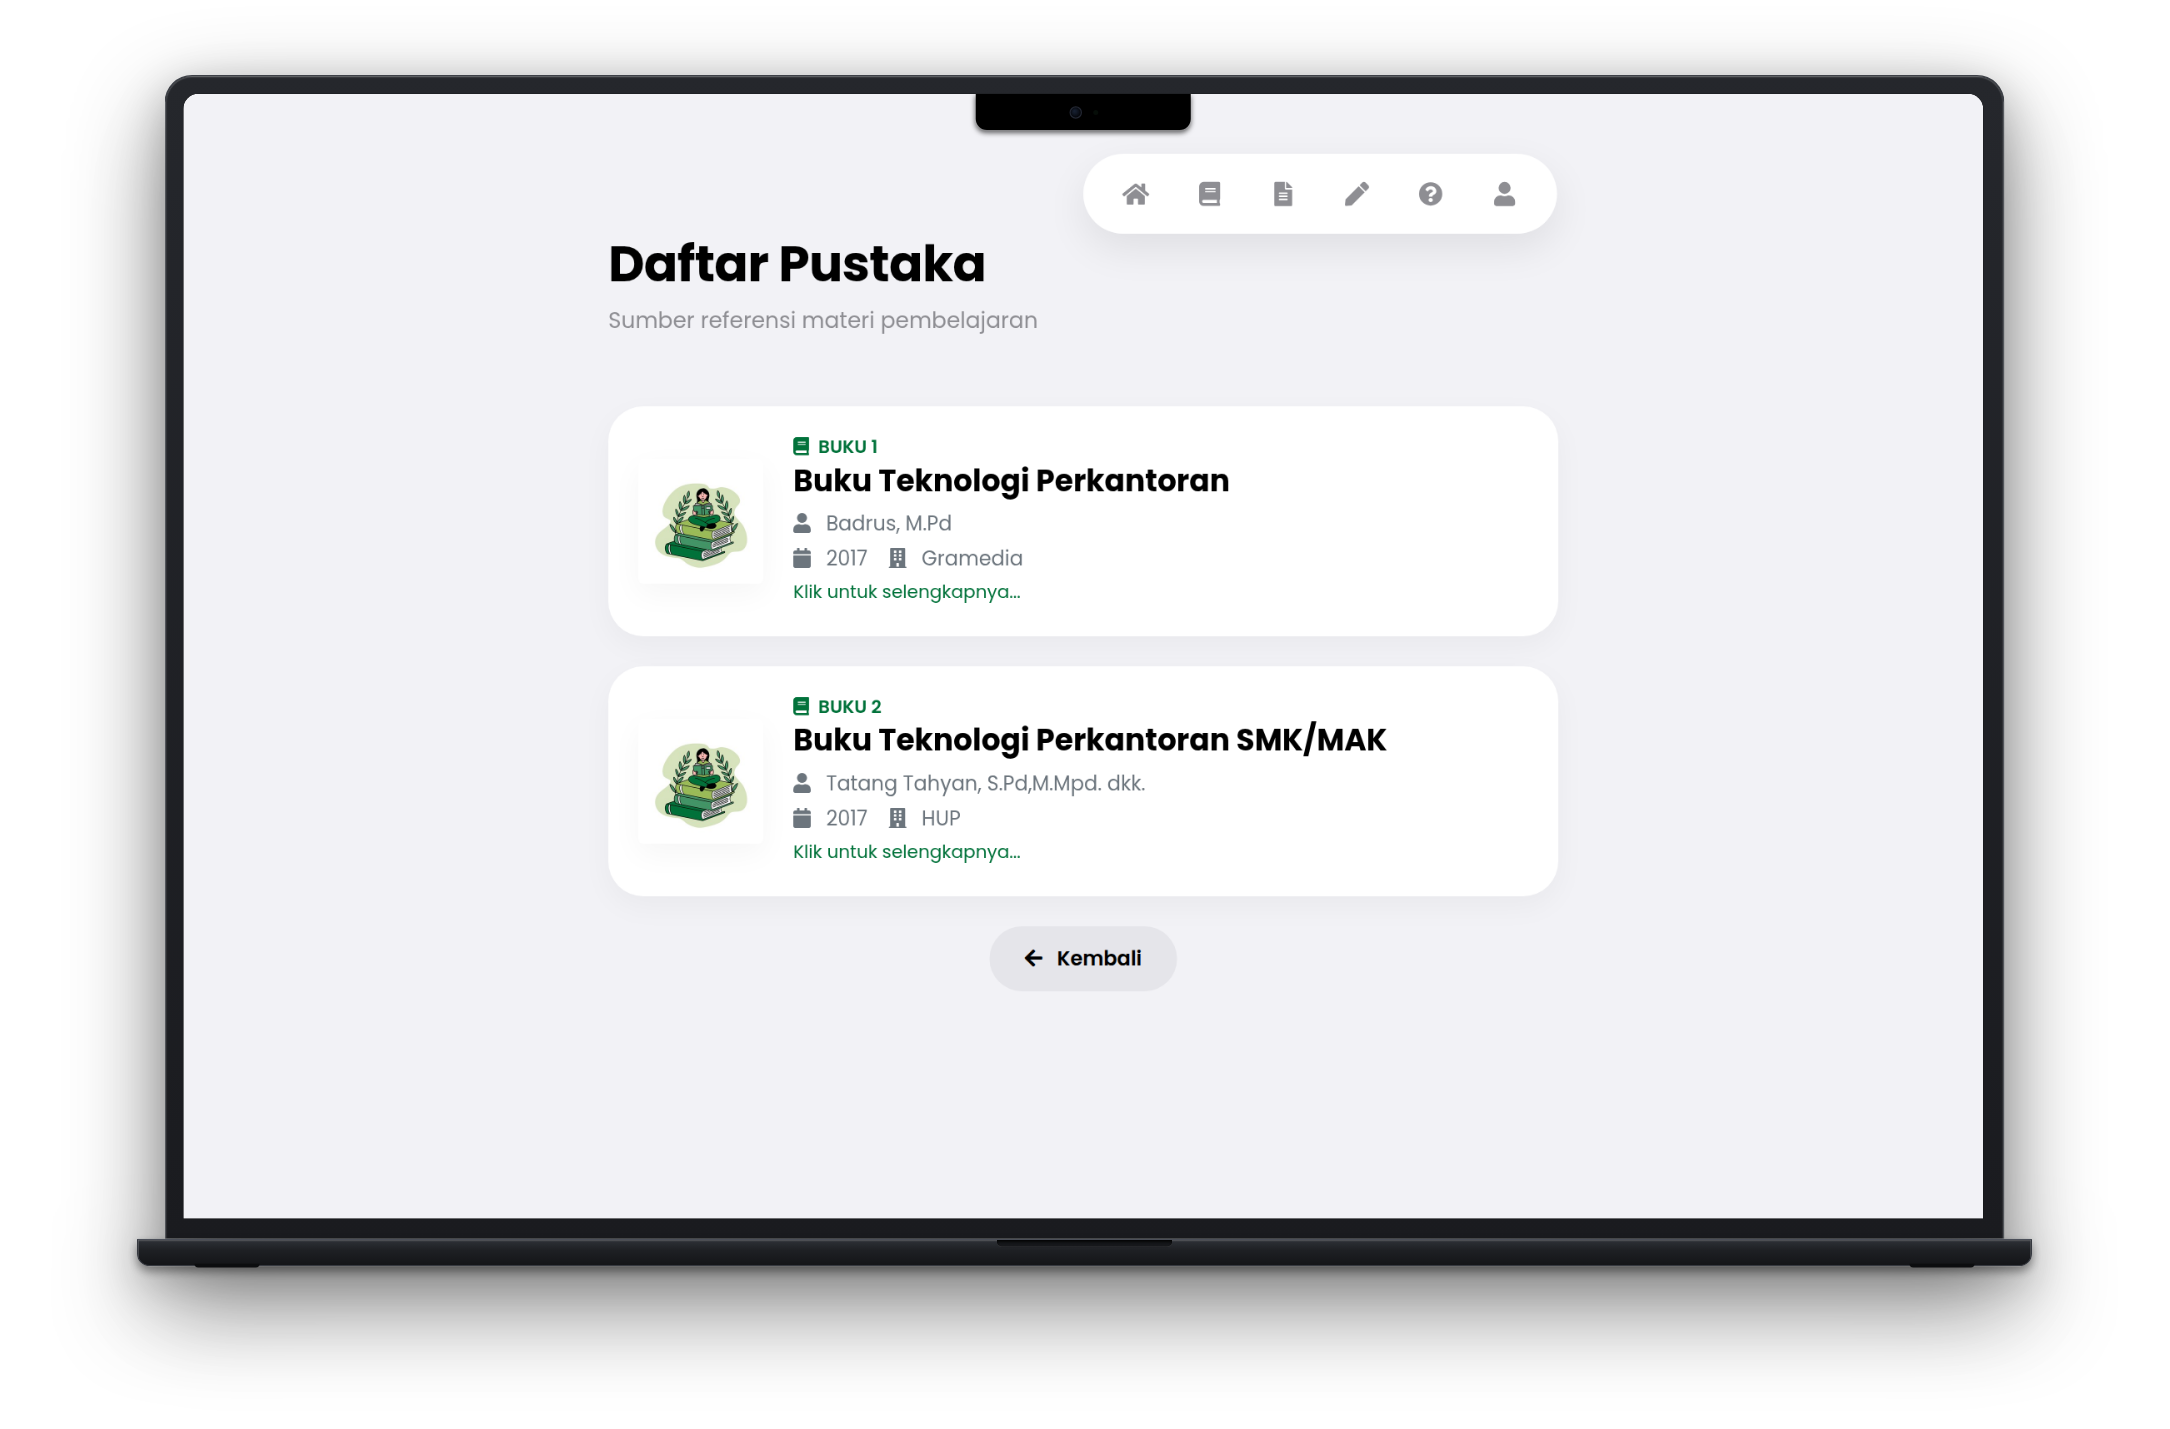
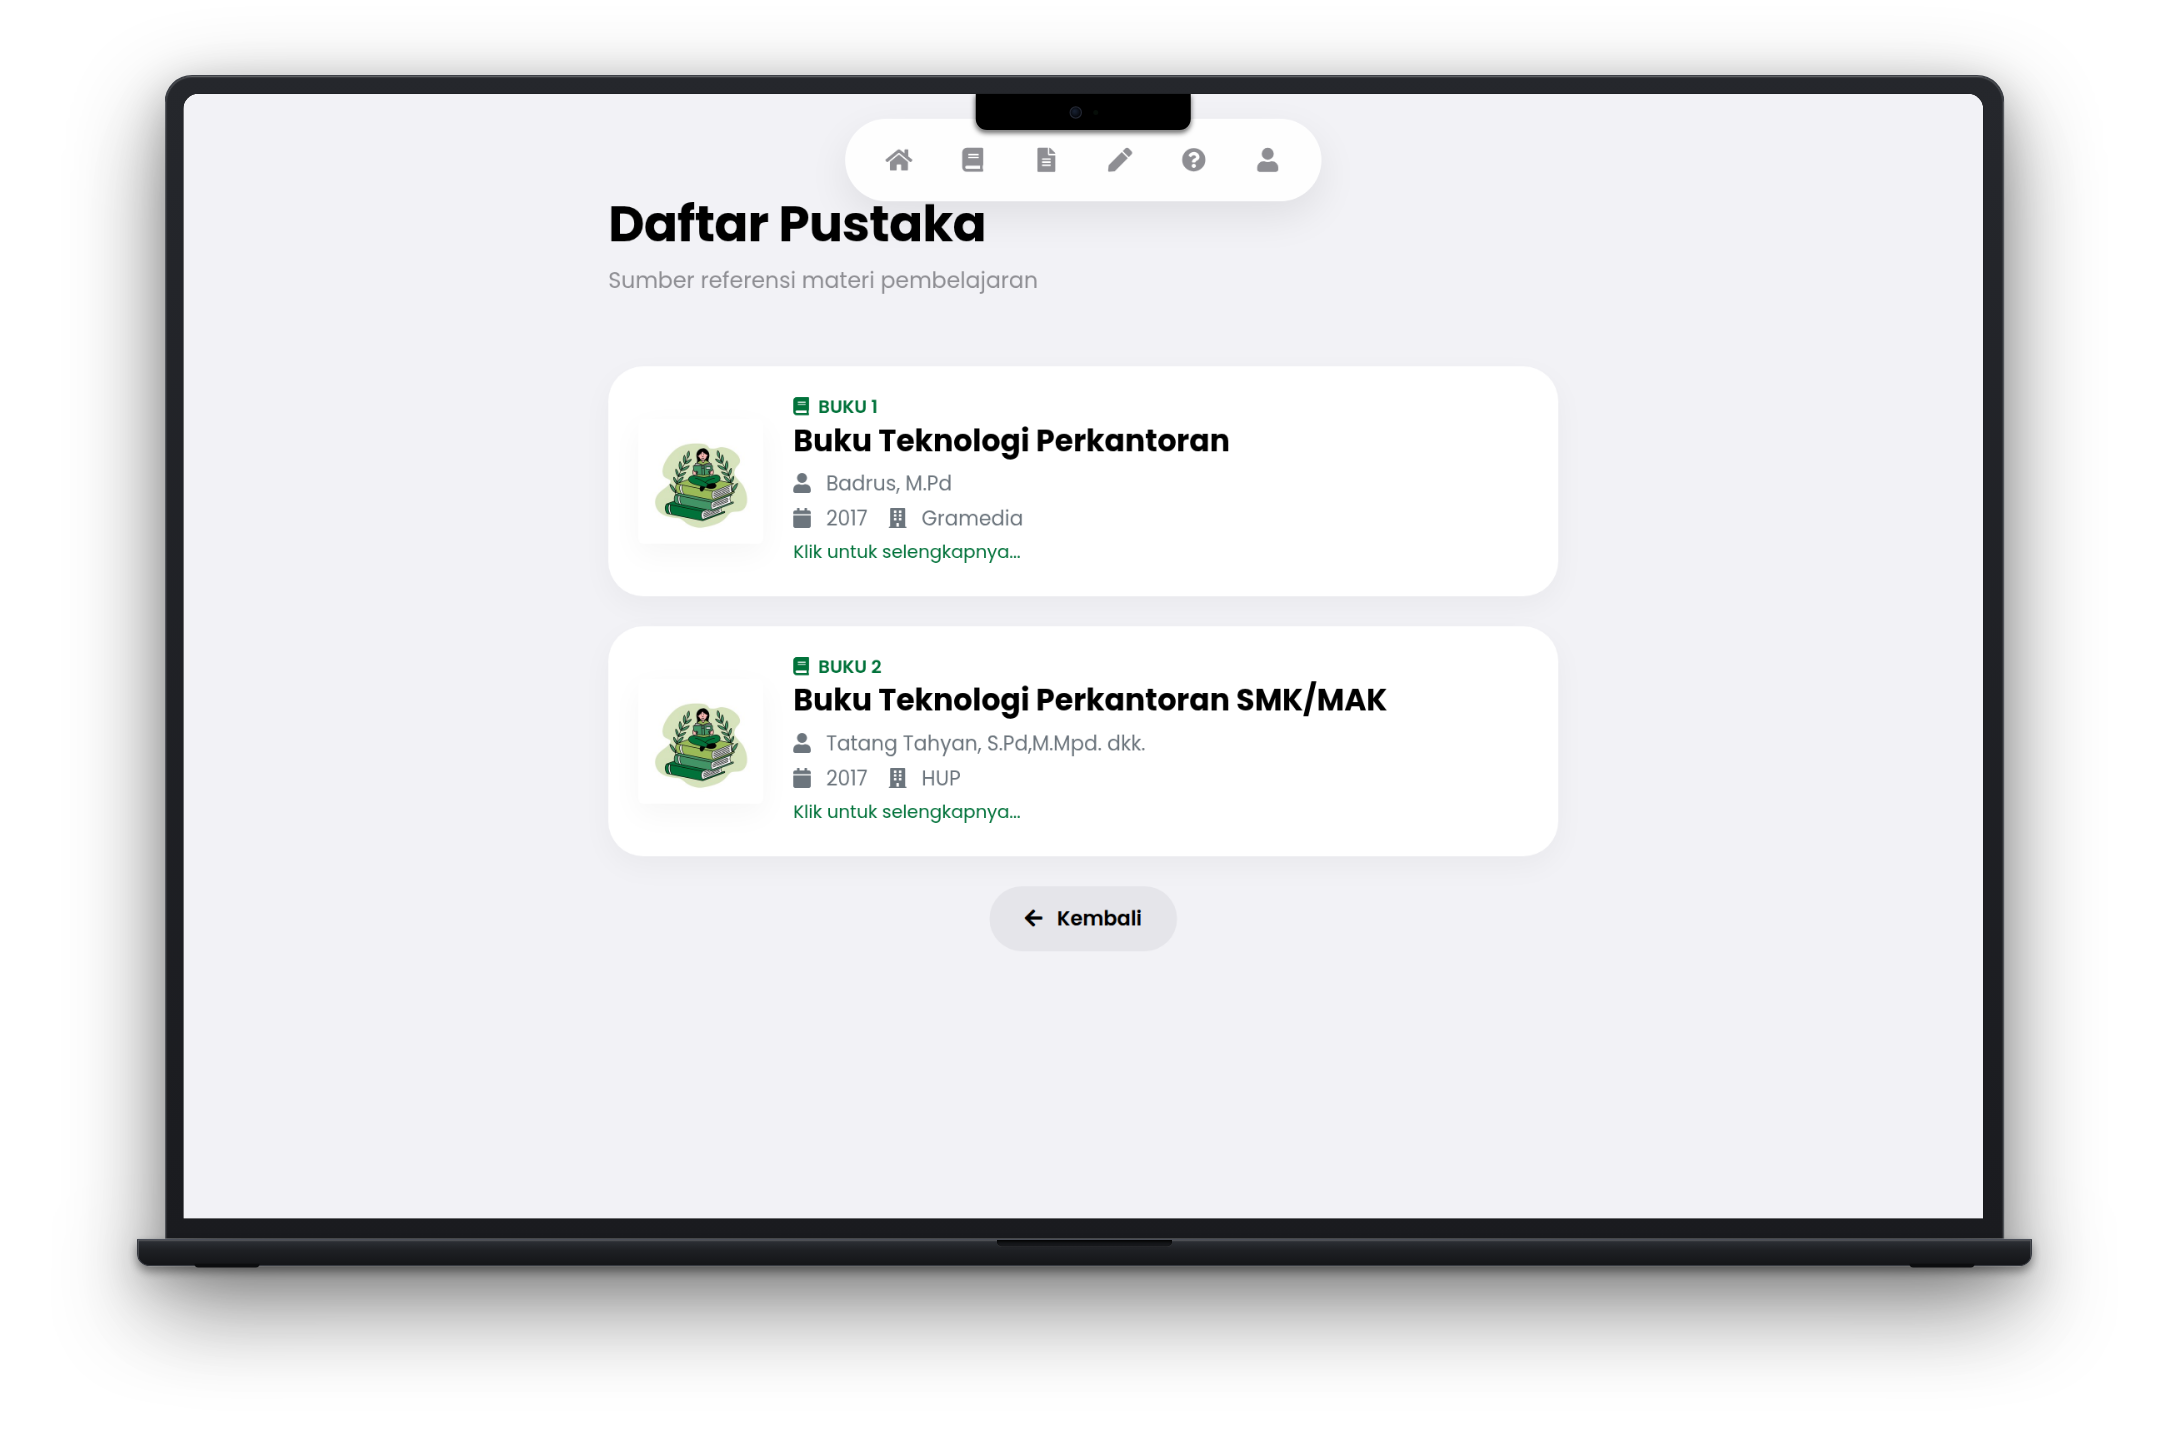
feat(ui): implement floating pill navbar with safe area insets on mobile and update showcase mockups

diff --git a/assets/css/oneui.css b/assets/css/oneui.css
@@ -48,7 +48,7 @@ body {
 .oneui-content {
   max-width: 800px;
   margin: 0 auto;
-  padding: 0 20px 80px;
+  padding: 0 20px calc(100px + env(safe-area-inset-bottom, 0px));
 }
 
 /* Cards */
@@ -145,20 +145,25 @@ body {
   border-bottom: none;
 }
 
-/* Floating Navigation (Bottom full-width on mobile, top pill on desktop) */
+/* Floating Navigation (Bottom floating pill dock on mobile, top pill on desktop) */
 .oneui-navbar {
   position: fixed;
-  bottom: 0;
-  left: 0;
-  width: 100%;
-  background: rgba(255, 255, 255, 0.95);
-  backdrop-filter: blur(10px);
-  padding: 10px 0;
-  box-shadow: 0 -4px 20px rgba(0, 0, 0, 0.05);
+  bottom: max(20px, calc(env(safe-area-inset-bottom, 0px) + 12px));
+  left: 16px;
+  right: 16px;
+  max-width: 440px;
+  margin: 0 auto;
+  background: rgba(255, 255, 255, 0.88);
+  backdrop-filter: blur(20px);
+  -webkit-backdrop-filter: blur(20px);
+  padding: 8px 14px;
+  box-shadow: 0 10px 30px rgba(0, 0, 0, 0.12);
   display: flex;
   justify-content: space-around;
+  align-items: center;
   z-index: 1000;
-  border-top: 1px solid #e5e5ea;
+  border-radius: 35px;
+  border: 1px solid rgba(255, 255, 255, 0.6);
 }
 
 .oneui-navbar a {
@@ -185,12 +190,15 @@ body {
     top: 20px;
     bottom: auto;
     left: 50%;
+    right: auto;
     transform: translateX(-50%);
     width: auto;
+    max-width: none;
+    margin: 0;
     border-radius: 50px;
     padding: 10px 20px;
     gap: 15px;
-    border-top: none;
+    border: 1px solid rgba(255, 255, 255, 0.8);
     box-shadow: var(--oneui-shadow-hover);
   }
 }
@@ -210,6 +218,23 @@ body {
   to {
     opacity: 1;
     transform: translateY(0);
+  }
+}
+
+/* Specific fade-up for navbar on desktop to preserve horizontal centering */
+@media (min-width: 768px) {
+  .oneui-navbar.animate-fade-up {
+    animation-name: fadeUpNavbarDesktop;
+  }
+  @keyframes fadeUpNavbarDesktop {
+    from {
+      opacity: 0;
+      transform: translate(-50%, -20px);
+    }
+    to {
+      opacity: 1;
+      transform: translate(-50%, 0);
+    }
   }
 }
 

diff --git a/format.html b/format.html
@@ -2,7 +2,7 @@
 <html lang="id">
 <head>
   <meta charset="UTF-8">
-  <meta name="viewport" content="width=device-width, initial-scale=1, shrink-to-fit=no">
+  <meta name="viewport" content="width=device-width, initial-scale=1, shrink-to-fit=no, viewport-fit=cover">
   <title>Membuat Format Workbook - Javex</title>
   
   <link rel="preconnect" href="https://fonts.gstatic.com">

diff --git a/mulai.html b/mulai.html
@@ -2,7 +2,7 @@
 <html lang="id">
 <head>
   <meta charset="UTF-8">
-  <meta name="viewport" content="width=device-width, initial-scale=1, shrink-to-fit=no">
+  <meta name="viewport" content="width=device-width, initial-scale=1, shrink-to-fit=no, viewport-fit=cover">
   <title>Memulai Microsoft Excel - Javex</title>
   
   <link rel="preconnect" href="https://fonts.gstatic.com">

diff --git a/mulailatsoal.html b/mulailatsoal.html
@@ -2,7 +2,7 @@
 <html lang="id">
 <head>
   <meta charset="UTF-8">
-  <meta name="viewport" content="width=device-width, initial-scale=1, shrink-to-fit=no">
+  <meta name="viewport" content="width=device-width, initial-scale=1, shrink-to-fit=no, viewport-fit=cover">
   <title>Mulai Latihan Soal - Javex</title>
   
   <link rel="preconnect" href="https://fonts.gstatic.com">

diff --git a/kd.html b/kd.html
@@ -2,7 +2,7 @@
 <html lang="id">
 <head>
   <meta charset="UTF-8">
-  <meta name="viewport" content="width=device-width, initial-scale=1, shrink-to-fit=no">
+  <meta name="viewport" content="width=device-width, initial-scale=1, shrink-to-fit=no, viewport-fit=cover">
   <title>Kompetensi Dasar - Javex</title>
   
   <link rel="preconnect" href="https://fonts.gstatic.com">

diff --git a/daftarpustaka.html b/daftarpustaka.html
@@ -2,7 +2,7 @@
 <html lang="id">
 <head>
   <meta charset="UTF-8">
-  <meta name="viewport" content="width=device-width, initial-scale=1, shrink-to-fit=no">
+  <meta name="viewport" content="width=device-width, initial-scale=1, shrink-to-fit=no, viewport-fit=cover">
   <title>Daftar Pustaka - Javex</title>
   
   <link rel="preconnect" href="https://fonts.gstatic.com">

diff --git a/rumus.html b/rumus.html
@@ -2,7 +2,7 @@
 <html lang="id">
 <head>
   <meta charset="UTF-8">
-  <meta name="viewport" content="width=device-width, initial-scale=1, shrink-to-fit=no">
+  <meta name="viewport" content="width=device-width, initial-scale=1, shrink-to-fit=no, viewport-fit=cover">
   <title>Rumus & Fungsi - Javex</title>
   
   <link rel="preconnect" href="https://fonts.gstatic.com">

diff --git a/latsoal.html b/latsoal.html
@@ -2,7 +2,7 @@
 <html lang="id">
 <head>
   <meta charset="UTF-8">
-  <meta name="viewport" content="width=device-width, initial-scale=1, shrink-to-fit=no">
+  <meta name="viewport" content="width=device-width, initial-scale=1, shrink-to-fit=no, viewport-fit=cover">
   <title>Latihan Soal - Javex</title>
   
   <link rel="preconnect" href="https://fonts.gstatic.com">

diff --git a/pendahuluan.html b/pendahuluan.html
@@ -2,7 +2,7 @@
 <html lang="id">
 <head>
   <meta charset="UTF-8">
-  <meta name="viewport" content="width=device-width, initial-scale=1, shrink-to-fit=no">
+  <meta name="viewport" content="width=device-width, initial-scale=1, shrink-to-fit=no, viewport-fit=cover">
   <title>Pendahuluan - Javex</title>
   
   <link rel="preconnect" href="https://fonts.gstatic.com">

diff --git a/mulaiquiz.html b/mulaiquiz.html
@@ -2,7 +2,7 @@
 <html lang="id">
 <head>
   <meta charset="UTF-8">
-  <meta name="viewport" content="width=device-width, initial-scale=1, shrink-to-fit=no">
+  <meta name="viewport" content="width=device-width, initial-scale=1, shrink-to-fit=no, viewport-fit=cover">
   <title>Mulai Quiz - Javex</title>
   
   <link rel="preconnect" href="https://fonts.gstatic.com">

diff --git a/materi.html b/materi.html
@@ -2,7 +2,7 @@
 <html lang="id">
 <head>
   <meta charset="UTF-8">
-  <meta name="viewport" content="width=device-width, initial-scale=1, shrink-to-fit=no">
+  <meta name="viewport" content="width=device-width, initial-scale=1, shrink-to-fit=no, viewport-fit=cover">
   <title>Materi - Javex</title>
   
   <link rel="preconnect" href="https://fonts.gstatic.com">

diff --git a/video.html b/video.html
@@ -2,7 +2,7 @@
 <html lang="id">
 <head>
   <meta charset="UTF-8">
-  <meta name="viewport" content="width=device-width, initial-scale=1, shrink-to-fit=no">
+  <meta name="viewport" content="width=device-width, initial-scale=1, shrink-to-fit=no, viewport-fit=cover">
   <title>Video - Javex</title>
   
   <link rel="preconnect" href="https://fonts.gstatic.com">
